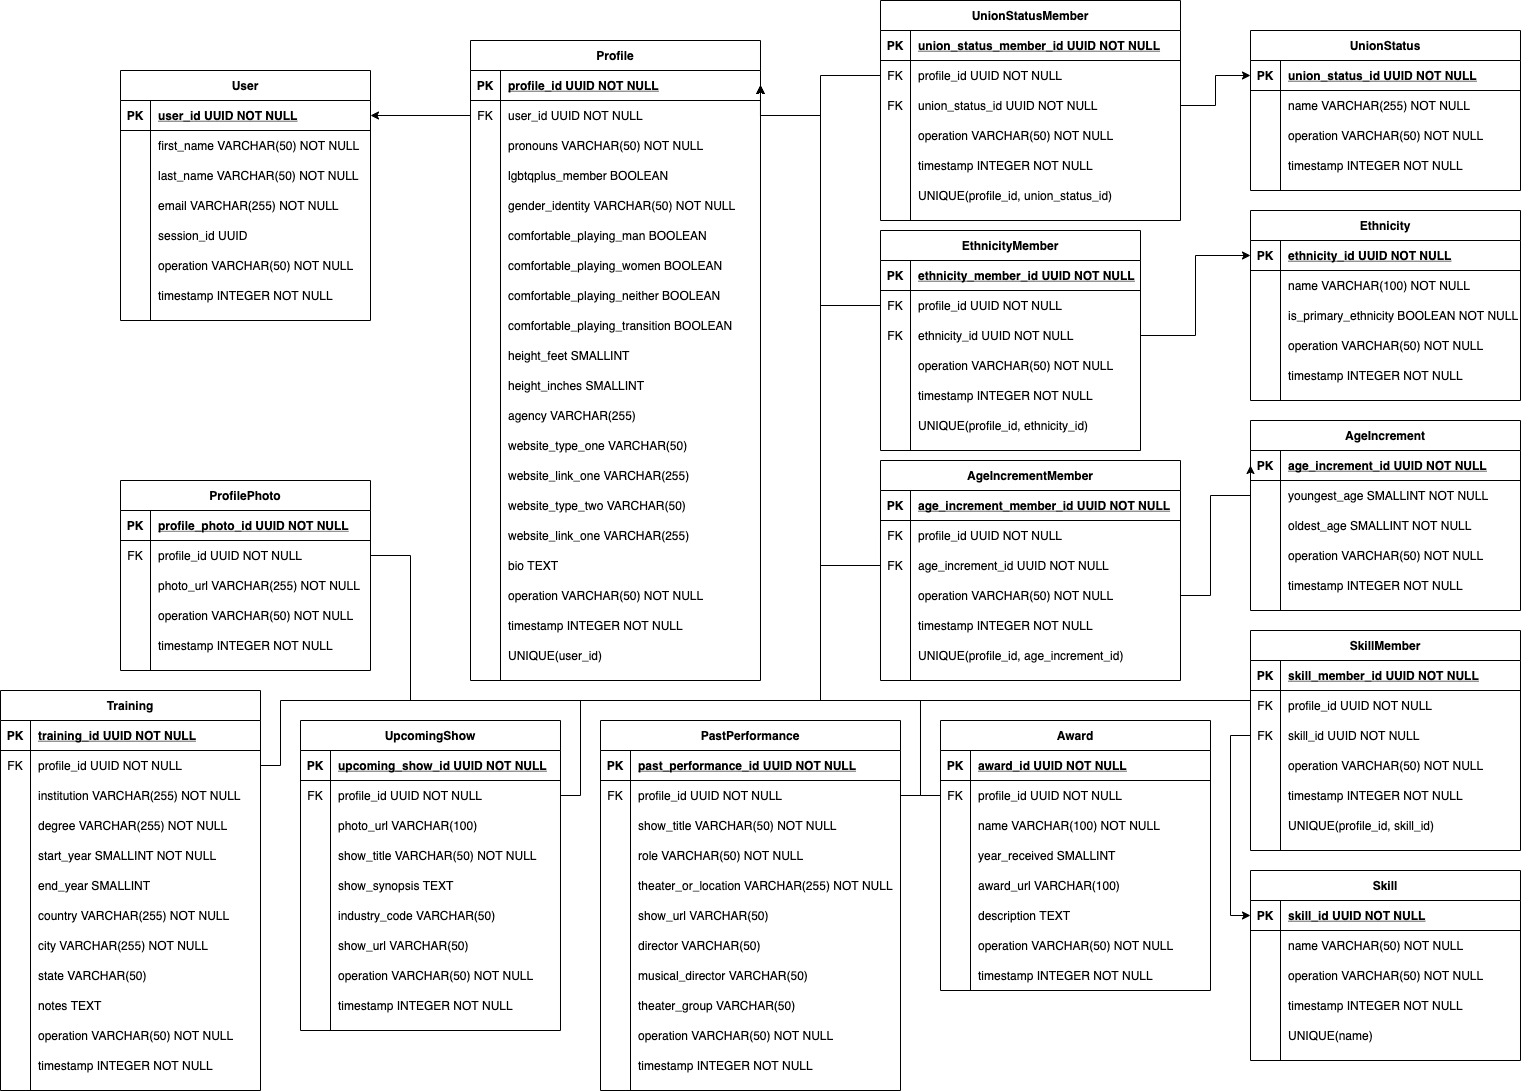
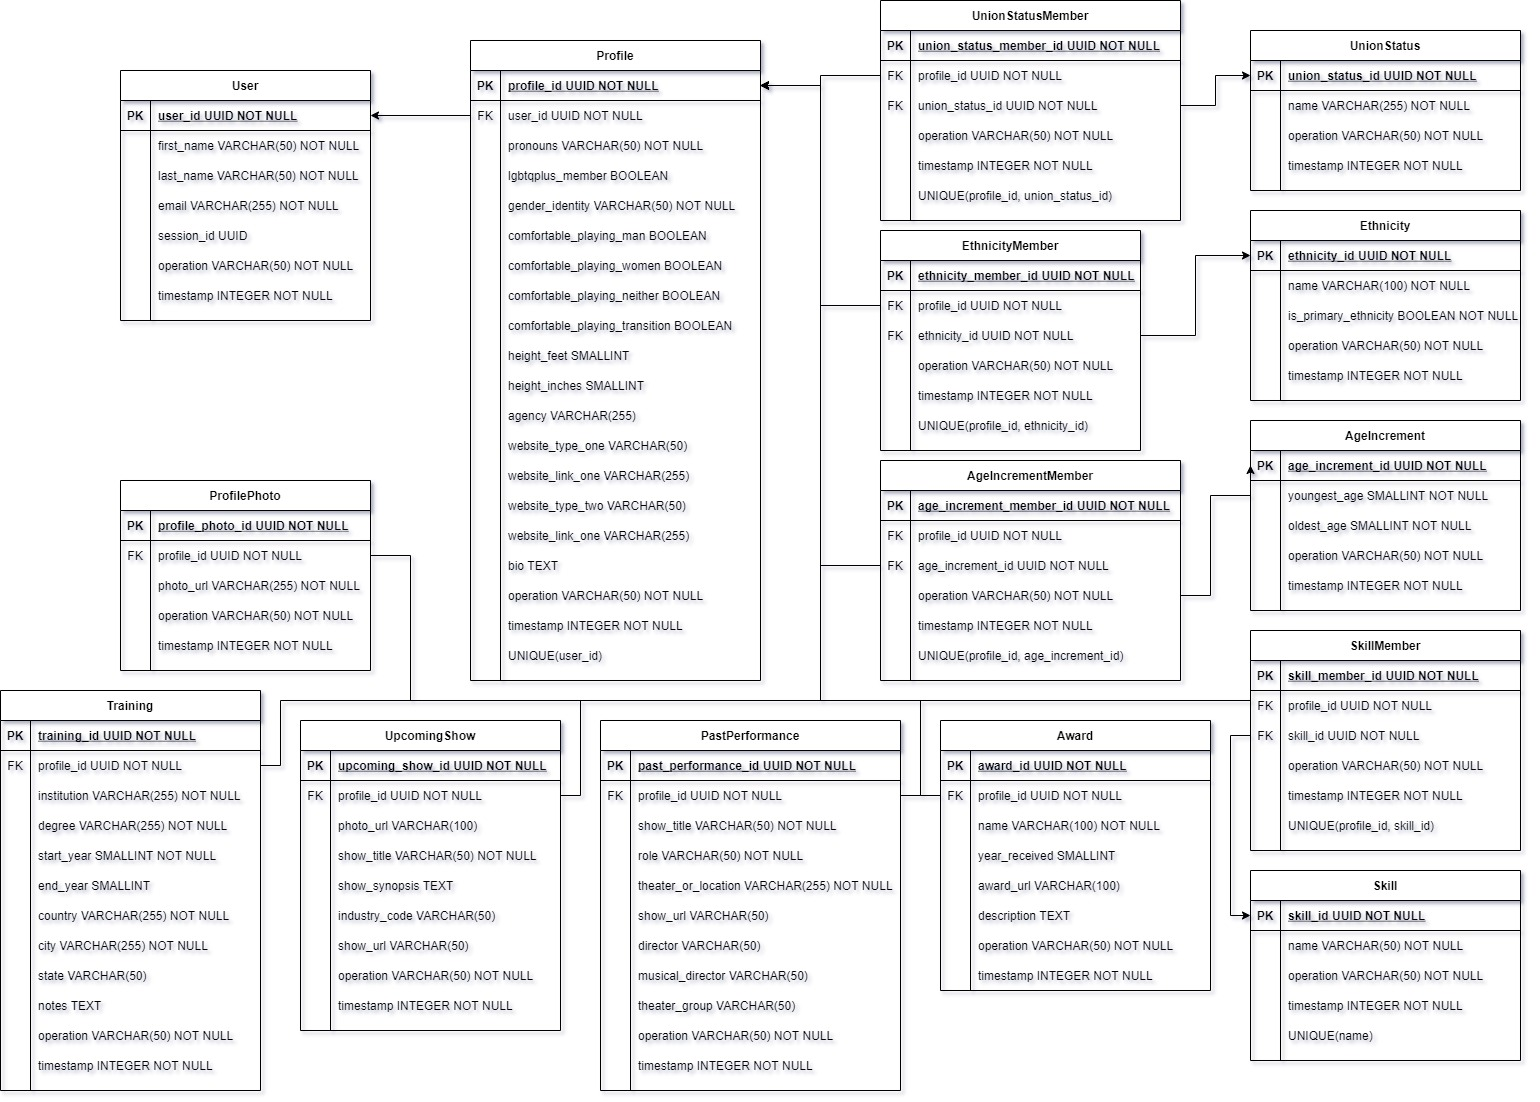
Added user session id and active status

Changed region(s): [[0.0, 0.0, 1.0, 1.0], [0.7377, 0.2805, 0.7685, 0.3116]]

diff --git a/src/test/java/com/cag/cagbackendapi/integration/UserControllerIntegrationTests.kt b/src/test/java/com/cag/cagbackendapi/integration/UserControllerIntegrationTests.kt
@@ -24,7 +24,7 @@ class UserControllerIntegrationTests {
 
     private val objectMapper = jacksonObjectMapper()
 
-    private val validTestUser = UserResponseDto(null, "test", "user", "testuser@aol.com")
+    private val validTestUser = UserResponseDto(null, "test", "user", "testuser@aol.com", true, null)
     private val validAuthKey = "mockAuthKey"
 
     @Test
@@ -45,7 +45,7 @@ class UserControllerIntegrationTests {
 
     @Test
     fun registerUser_emptyFirstFirstName_400BadRequest() {
-        val emptyNameUser = UserResponseDto(null, "", "", "testuser@aol.com")
+        val emptyNameUser = UserResponseDto(null, "", "", "testuser@aol.com", true, null)
 
         val headers = HttpHeaders()
         headers.set("authKey", validAuthKey)
@@ -61,7 +61,7 @@ class UserControllerIntegrationTests {
 
     @Test
     fun registerUser_nullName_400BadRequest() {
-        val nullNameUser = UserResponseDto(null, null, null,"testuser@aol.com")
+        val nullNameUser = UserResponseDto(null, null, null,"testuser@aol.com", true, null)
 
         val headers = HttpHeaders()
         headers.set("authKey", validAuthKey)
@@ -77,7 +77,7 @@ class UserControllerIntegrationTests {
 
     @Test
     fun registerUser_emptyEmail_400BadRequest() {
-        val emptyEmailUser = UserResponseDto(null, "test", "user", "")
+        val emptyEmailUser = UserResponseDto(null, "test", "user", "", true, null)
 
         val headers = HttpHeaders()
         headers.set("authKey", validAuthKey)
@@ -93,7 +93,7 @@ class UserControllerIntegrationTests {
 
     @Test
     fun registerUser_nullEmail_400BadRequest() {
-        val nullEmailUser = UserResponseDto(null, "test", "user", null)
+        val nullEmailUser = UserResponseDto(null, "test", "user", null, true, null)
 
         val headers = HttpHeaders()
         headers.set("authKey", validAuthKey)
@@ -109,7 +109,7 @@ class UserControllerIntegrationTests {
 
     @Test
     fun registerUser_nullEmailAndFirstName_400BadRequest() {
-        val nullEmailUser = UserResponseDto(null, null, null, null)
+        val nullEmailUser = UserResponseDto(null, null, null, null, true, null)
 
         val headers = HttpHeaders()
         headers.set("authKey", validAuthKey)

diff --git a/src/test/java/com/cag/cagbackendapi/controllers/UserControllerTest.kt b/src/test/java/com/cag/cagbackendapi/controllers/UserControllerTest.kt
@@ -29,7 +29,7 @@ class UserControllerTest {
     fun registerUser_validInput_returns201()   {
         val testAuthKey = "testAuthKey"
         val requestUser = RegisterUserRequestDto("John", "Smith", "johnjohn@aol.com")
-        val resultUser = UserResponseDto(UUID.randomUUID(), "John", "Smith", "johnjohn@aol.com")
+        val resultUser = UserResponseDto(UUID.randomUUID(), "John", "Smith", "johnjohn@aol.com", true, null)
 
         doNothing().whenever(validationService).validateAuthKey(testAuthKey)
         whenever(userService.registerUser(requestUser)).thenReturn(resultUser)

diff --git a/src/main/java/com/cag/cagbackendapi/dtos/UserResponseDto.kt b/src/main/java/com/cag/cagbackendapi/dtos/UserResponseDto.kt
@@ -2,4 +2,9 @@ package com.cag.cagbackendapi.dtos;
 
 import java.util.UUID
 
-data class UserResponseDto(var user_id: UUID?, var first_name: String?, var last_name: String?, var email: String?)
+data class UserResponseDto(var user_id: UUID?,
+                           var first_name: String?,
+                           var last_name: String?,
+                           var email: String?,
+                           var active_status: Boolean?,
+                           var session_id: String?)

diff --git a/src/test/java/com/cag/cagbackendapi/services/user/UserServiceTest.kt b/src/test/java/com/cag/cagbackendapi/services/user/UserServiceTest.kt
@@ -29,7 +29,7 @@ class UserServiceTest {
     fun registerUser_validUser_logsAndSucceeds() {
         // assemble
         val inputUser = RegisterUserRequestDto("testy", "tester", "testytester@aol.com")
-        val resultUser = UserResponseDto(UUID.randomUUID(), "testy", "tester", "testytester@aol.com")
+        val resultUser = UserResponseDto(UUID.randomUUID(), "testy", "tester", "testytester@aol.com", true, null)
 
         whenever(userDao.saveUser(inputUser)).thenReturn(resultUser)
 

diff --git a/src/main/java/com/cag/cagbackendapi/entities/UserEntity.java b/src/main/java/com/cag/cagbackendapi/entities/UserEntity.java
@@ -28,8 +28,10 @@ public class UserEntity {
     private String first_name;
     private String last_name;
     private String email;
+    private Boolean active_status;
+    private String session_id;
 
     public UserResponseDto toDto() {
-        return new UserResponseDto(this.userId, this.first_name, this.last_name, this.email);
+        return new UserResponseDto(this.userId, this.first_name, this.last_name, this.email, this.active_status, this.session_id);
     }
 }

diff --git a/src/main/java/com/cag/cagbackendapi/entities/ProfileEntity.java b/src/main/java/com/cag/cagbackendapi/entities/ProfileEntity.java
@@ -30,7 +30,6 @@ public class ProfileEntity {
     private Boolean comfortable_playing_women;
     private Boolean comfortable_playing_neither;
     private Boolean comfortable_playing_transition;
-    private int height_feet;
     private int height_inches;
     private String agency;
     private String website_type_one;
